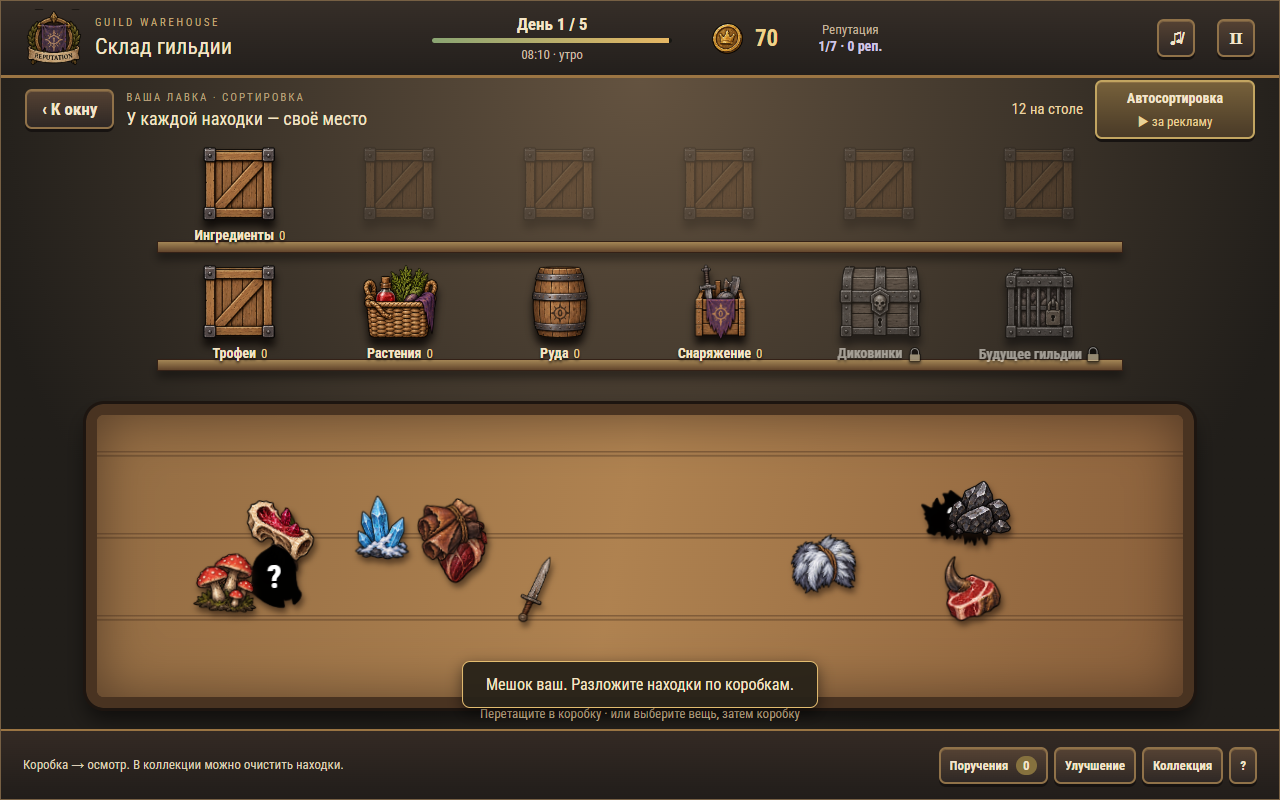
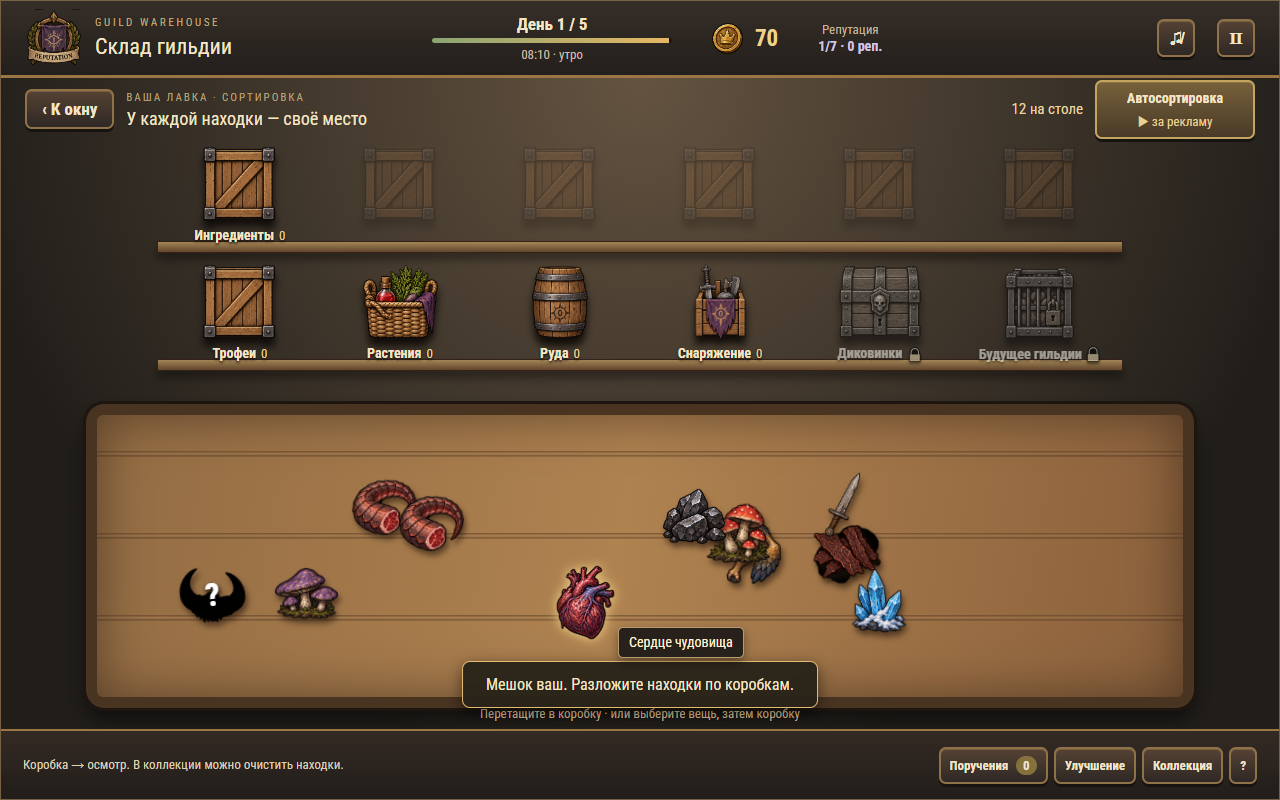
создано ftue для реализации обучения и изменен стартовая обложка

Changed region(s): [[0.125, 0.5938, 0.5938, 0.8438], [0.5, 0.5938, 0.8125, 0.8125]]

diff --git a/dist/game.js b/dist/game.js
@@ -188,7 +188,7 @@ function renderReception(){
     if(!state.bag.length||!offer)button(action,'К столу и коробкам',()=>setScreen('work','sort'),'goWork');
     if(!state.schedule.length&&!state.offers.length&&!state.orderSchedule?.length)button(action,'Закончить день',requestEndDay,'closeDay',!!state.bag.length);
   }
-  $('stepHint').textContent=state.started?'Мешок → ваш порядок → заказы → развитие лавки':'Наведите порядок среди находок и познакомьтесь с гильдией.';
+  $('stepHint').textContent='';
 }
 function planDay(firstArrival=0){
   state.dayCollectionStart=state.collection.length;
@@ -200,7 +200,7 @@ function planDay(firstArrival=0){
   for(let i=0;i<n;i++){const big=state.day===2&&i===2;state.schedule.push({at:timing?timing.adventurers[i]:i===0?firstArrival:Math.round(i*140/(n-1)),visitor:(state.day+i-1)%adventurers.length,big,loot:makeLoot(big)});}
   guaranteeOrder();tickArrivals();
 }
-function startGame(){state=freshState();state.started=true;last=performance.now();planDay(2);render();save();}
+function startGame(){state=freshState();state.started=true;last=performance.now();planDay(2);startTutorial();render();save();}
 function tickArrivals(){
   let changed=false;
   const now=CONFIG.daySeconds-state.seconds;let orderDeferred=false;
@@ -219,8 +219,8 @@ function buyBag(){
   prepareOffer(state.offers[0]);if(state.gold<state.offers[0].price)return;
   const offer=state.offers.shift();state.gold-=offer.price;state.daySpent+=offer.price;state.dayBought++;
   state.bag.push(...offer.loot);state.combo=0;trackSortingBag(offer.loot);
-  for(const x of offer.loot)x.tablePos={x:Math.random()*.88,y:Math.random()*.74};
-  if(!INTRO_TIMING[state.day]&&!allOrders().some(o=>o.accepted===false)&&(!allOrders().length||state.offers.length||state.schedule.length))createOrder();setScreen('work','sort');beep();toast('Мешок ваш. Разложите находки по коробкам.');
+  for(const [i,x] of offer.loot.entries())x.tablePos=offer.tutorial?{x:.12+i*.22,y:.35}:{x:Math.random()*.88,y:Math.random()*.74};
+  if(!INTRO_TIMING[state.day]&&!allOrders().some(o=>o.accepted===false)&&(!allOrders().length||state.offers.length||state.schedule.length))createOrder();setScreen('work','sort');beep();
 }
 function advanceReadyVisitor(dt){
   if(!INTRO_TIMING[state.day]||!state.dayBought||(state.bag.length&&state.screen!=='reception')||state.offers.length||allOrders().some(o=>o.accepted===false)){
@@ -276,11 +276,12 @@ function renderWork(){
   renderShelves();$('pile').innerHTML='';if(sort)renderItems($('pile'),state.bag,'table');
   $('boxZone').innerHTML='';$('sourceBox').innerHTML='';hidden('sourceBox',true);
   if(!sort){
-    $('boxZone').innerHTML='<div id="parcelDrop" aria-label="Открытая коробка для заказа"><span class="box-title">Поручение</span><div id="packedItems"></div></div>';
-    for(const x of (state.order?.packed||[])){const im=document.createElement('img');im.src=asset(items[x.type].sprite);im.alt=items[x.type].name;$('packedItems').append(im);}
+    $('boxZone').innerHTML='<div id="parcelDrop" aria-label="Открытая коробка для заказа"><span class="box-title">Поручение</span><button id="tidyParcel" class="tidy-box">Сортировать</button><button id="closeParcel" class="red-close" aria-label="Закрыть посылку">×</button><div id="packedScroll"><div id="packedItems"></div></div></div>';
+    renderItems($('packedItems'),state.order?.packed||[],'packed');
+    $('tidyParcel').onclick=()=>arrangeBox($('packedItems'),state.order.packed,'packed');$('closeParcel').onclick=()=>setScreen('work','sort');
     hidden('sourceBox',false);
     if(state.activeCat===null){$('sourceBox').className='source-placeholder';$('sourceBox').textContent='Откройте нужную коробку на полке';}
-    else{$('sourceBox').className='source-open';$('sourceBox').innerHTML=`<div class="source-heading"><div><b>${categories[state.activeCat].name}</b></div><button id="closeSource" class="red-close" aria-label="Закрыть коробку">×</button></div><div id="sourceScroll"><div id="sourceItems"></div></div>`;$('closeSource').onclick=()=>{state.activeCat=null;renderWork();};renderItems($('sourceItems'),stockFor(state.activeCat),'source');}
+    else{$('sourceBox').className='source-open';$('sourceBox').innerHTML=`<div class="source-heading"><div><b>${categories[state.activeCat].name}</b></div><button id="tidySource" class="tidy-box">Сортировать ящик</button><button id="closeSource" class="red-close" aria-label="Закрыть коробку">×</button></div><div id="sourceScroll"><div id="sourceItems"></div></div>`;$('closeSource').onclick=()=>{state.activeCat=null;renderWork();};$('tidySource').onclick=()=>arrangeBox($('sourceItems'),stockFor(state.activeCat),'source');renderItems($('sourceItems'),stockFor(state.activeCat),'source');}
   }
   renderChecklist();hidden('autoSortButton',!sort);$('autoSortButton').disabled=!state.bag.length||state.autoSorting;
   hidden('sweepButton',!sort||!state.upgrade);$('sweepButton').disabled=!state.bag.length;
@@ -313,31 +314,41 @@ function renderChecklist(){
   else if(orderComplete())button(actions,state.activeCat===null?'Выдать посылку':'Сначала закройте коробку',finishOrder,'ship',state.activeCat!==null).className='primary';
   else button(actions,'Вернуться к сортировке',()=>setScreen('work','sort'),'backSort');
 }
+function itemPositionKey(kind){return kind==='table'?'tablePos':kind==='packed'?'parcelPos':'boxPos';}
+function arrangeBox(area,list,kind){
+  if(state.paused||state.autoSorting)return;
+  const width=area.clientWidth,size=60,columns=Math.max(1,Math.floor((width-20)/68)),key=itemPositionKey(kind);
+  const ordered=[...list].sort((a,b)=>(isUnknown(a)?'Неизвестная находка':items[a.type].name).localeCompare(isUnknown(b)?'Неизвестная находка':items[b.type].name,'ru')||a.uid-b.uid);
+  ordered.forEach((x,i)=>{x[key]={x:(i%columns)*68/Math.max(1,width-size-20),y:8+Math.floor(i/columns)*68};x.boxAngle=0;});
+  area.innerHTML='';renderItems(area,list,kind);area.parentElement.scrollTop=0;save();
+}
 function renderItems(area,list,kind){
   hidden('tooltip',true);
   area.classList.toggle('crowded-pile',kind==='table'&&list.length>20);
-  if(!list.length){area.innerHTML='<div class="empty-pile">Здесь пока пусто</div>';return;}
+  if(!list.length){area.style.height='100%';area.innerHTML='<div class="empty-pile">Здесь пока пусто</div>';return;}
   const table=kind==='table',size=table?79:60,width=area.clientWidth||450,columns=Math.max(1,Math.floor((width-20)/68));
+  const key=itemPositionKey(kind);
   list.forEach((x,i)=>{
-    if(!table)x.boxPos={x:(i%columns)*68/Math.max(1,width-size-20),y:Math.floor(i/columns)*68};
-    const pos=table?(x.tablePos||{x:Math.random()*.8,y:Math.random()*.7}):x.boxPos;
+    if(!table&&!x[key])x[key]={x:(i%columns)*68/Math.max(1,width-size-20),y:8+Math.floor(i/columns)*68};
+    const pos=table?(x.tablePos||{x:Math.random()*.8,y:Math.random()*.7}):x[key];
+    if(!table){pos.x=Math.max(0,Math.min(1,pos.x));pos.y=Math.max(8,pos.y);}
     if(table)x.tablePos=pos;
     const b=button(area,'',()=>clickItem(x,kind));b.className='item'+(state.selected===x.uid?' chosen':'');b.dataset.uid=x.uid;b.dataset.kind=kind;
     const unknown=isUnknown(x);b.classList.toggle('mystery-item',unknown);
     b.setAttribute('aria-label',unknown?'Неизвестная находка':items[x.type].name);
     b.innerHTML=`<img src="${asset(items[x.type].sprite)}" alt="${unknown?'Неизвестная находка':items[x.type].name}" draggable="false">${unknown?'<span class="mystery-question">?</span>':''}`;
     b.style.left=(10+pos.x*Math.max(1,width-size-20))+'px';b.style.top=(table?10+pos.y*Math.max(1,area.clientHeight-size-20):pos.y)+'px';
-    b.style.transform=`rotate(${x.uid%21-10}deg)`;b.style.zIndex=x.depth||i+1;
+    b.style.transform=`rotate(${!table&&x.boxAngle!==undefined?x.boxAngle:x.uid%21-10}deg)`;b.style.zIndex=x.depth||i+1;
     b.onpointerdown=e=>pointerDown(e,x,b,kind);
   });
-  if(!table)area.style.height=Math.max(180,...list.map(x=>x.boxPos.y+size+20))+'px';
+  if(!table)area.style.height=Math.max(area.parentElement.clientHeight,...list.map(x=>x[key].y+size+12))+'px';
 }
 function clickItem(x,kind){
   if(performance.now()<suppressUntil||state.paused||state.autoSorting)return;
   if(isUnknown(x)){openUnknown(x);return;}
-  if(state.inspectCat!==null&&kind!=='inspect'&&kind!=='junk')return;
+  if(state.inspectCat!==null&&!['inspect','junk','target'].includes(kind))return;
   if(kind==='source'){packItem(x.uid);return;}
-  if(kind==='inspect'){toast(`${items[x.type].name} · передвигайте внутри коробки`);return;}
+  if(['inspect','target','packed'].includes(kind))return;
   state.selected=state.selected===x.uid?null:x.uid;
   if(kind==='junk'){renderInspection();toast('Выберите коробку на полке или нажмите «Переложить»');}else renderWork();
 }
@@ -429,13 +440,14 @@ function openInspection(cat){if(state.paused||state.autoSorting||!state.started)
 function renderInspection(){const cat=state.inspectCat;if(cat===null)return;const list=cat==='junk'?state.junk:stockFor(cat);$('inspectTitle').textContent=`${cat==='junk'?'Диковинки':categories[cat].name}`;$('inspectItems').innerHTML='';renderItems($('inspectItems'),list,cat==='junk'?'junk':'inspect');$('inspector').querySelector('.inspection-note').textContent=cat==='junk'?'Выберите вещь и перенесите в коробку справа.':'Двигайте вещи · для очистки откройте коллекцию.';}
 function renderTarget(){
   const show=state.inspectCat==='junk';hidden('targetPreview',!show);if(!show)return;
-  const cat=state.targetCat,area=$('targetPreview');area.innerHTML=`<header><span>${categories[cat].name}</span><button id="moveSelected" style="font-size:14px;padding:7px">Переложить →</button></header><div class="target-items">${stockFor(cat).map(x=>`<img src="${asset(items[x.type].sprite)}" alt="${items[x.type].name}">`).join('')||'<div class="target-empty">Перетащите сюда вещь из «Диковинок». Другую коробку выберите на полке.</div>'}</div>`;
+  const cat=state.targetCat,area=$('targetPreview');area.innerHTML=`<header><span>${categories[cat].name}</span><button id="moveSelected">Переложить →</button><button id="tidyTarget" class="tidy-box">Сортировать ящик</button><button id="closeTarget" class="red-close" aria-label="Закрыть коробки">×</button></header><div id="targetScroll"><div id="targetItems"></div></div>`;
+  renderItems($('targetItems'),stockFor(cat),'target');$('tidyTarget').onclick=()=>arrangeBox($('targetItems'),stockFor(cat),'target');$('closeTarget').onclick=closeInspection;
   $('moveSelected').disabled=state.selected===null;$('moveSelected').onclick=()=>sortItem(state.selected,state.targetCat);
 }
 function closeInspection(){cancelDrag();state.inspectCat=null;state.selected=null;hidden('inspector',true);hidden('targetPreview',true);renderWork();}
 function pointerDown(e,x,node,kind){
   if(e.button!==0||state.paused||state.autoSorting)return;
-  if(state.inspectCat!==null&&kind!=='inspect'&&kind!=='junk')return;
+  if(state.inspectCat!==null&&!['inspect','junk','target'].includes(kind))return;
   const r=node.getBoundingClientRect();drag={uid:x.uid,item:x,node,kind,x:e.clientX,y:e.clientY,grabX:(e.clientX-r.left)/scale,grabY:(e.clientY-r.top)/scale,active:false};node.setPointerCapture(e.pointerId);
 }
 function cancelDrag(){if(drag){drag.ghost?.remove();drag.node.style.opacity='';drag=null;}}
@@ -444,7 +456,7 @@ addEventListener('pointermove',e=>{
   if(!drag)return;if(!drag.active&&Math.hypot(e.clientX-drag.x,e.clientY-drag.y)<6)return;
   if(!drag.active){drag.active=true;drag.ghost=drag.node.cloneNode(true);drag.ghost.classList.add('dragging');drag.ghost.classList.remove('chosen');drag.ghost.style.opacity='1';drag.ghost.style.transform='none';drag.ghost.style.width=drag.node.getBoundingClientRect().width+'px';drag.ghost.style.height=drag.node.getBoundingClientRect().height+'px';document.body.append(drag.ghost);drag.node.style.opacity='0';}
   drag.ghost.style.left=e.clientX-drag.grabX*scale+'px';drag.ghost.style.top=e.clientY-drag.grabY*scale+'px';
-  const scroll=drag.kind==='table'?$('pile'):drag.kind==='inspect'||drag.kind==='junk'?$('inspectScroll'):$('sourceScroll');
+  const scroll=drag.kind==='table'?$('pile'):drag.node.parentElement.parentElement;
   if(scroll&&inside(scroll,e.clientX,e.clientY)){const r=scroll.getBoundingClientRect();if(e.clientY>r.bottom-20*scale)scroll.scrollTop+=10;if(e.clientY<r.top+20*scale)scroll.scrollTop-=10;}
 });
 addEventListener('pointerup',e=>{
@@ -460,9 +472,11 @@ addEventListener('pointerup',e=>{
     const r=area.getBoundingClientRect(),size=d.kind==='table'?79:60;
     const pos={x:Math.max(0,Math.min(1,((e.clientX-r.left)/scale-d.grabX-10)/Math.max(1,area.clientWidth-size-20))),y:0};
     if(d.kind==='table')pos.y=Math.max(0,Math.min(1,((e.clientY-r.top)/scale-d.grabY-10)/Math.max(1,area.clientHeight-size-20)));
-    else pos.y=Math.max(0,Math.min(area.clientHeight-size,(e.clientY-r.top)/scale-d.grabY));
-    d.item[d.kind==='table'?'tablePos':'boxPos']=pos;d.item.depth=++depth;state.selected=null;
-    if(state.inspectCat!==null)renderInspection();else renderWork();save();
+    else pos.y=Math.max(8,Math.min(area.clientHeight-size-12,(e.clientY-r.top)/scale-d.grabY));
+    d.item[itemPositionKey(d.kind)]=pos;d.item.depth=++depth;state.selected=null;
+    const scrollTop=pane.scrollTop,paneId=pane.id;
+    if(state.inspectCat!==null){renderInspection();renderTarget();}else renderWork();
+    if($(paneId))$(paneId).scrollTop=scrollTop;save();
   }else toast('Вещь осталась на прежнем месте.');
 });
 addEventListener('pointercancel',cancelDrag);
@@ -590,6 +604,7 @@ function setup(){
   $('autoSortButton').parentElement.insertBefore(goldAd,$('autoSortButton'));
   const receptionGoldAd=button($('reception'),'▶ Посмотреть рекламу · +15 монет',showGoldAd,'receptionGoldAd');receptionGoldAd.className='gold hidden';
   const target=document.createElement('section');target.id='targetPreview';target.className='hidden';$('work').append(target);
+  const tidyInspector=button($('closeInspector').parentElement,'Сортировать ящик',()=>arrangeBox($('inspectItems'),state.inspectCat==='junk'?state.junk:stockFor(state.inspectCat),state.inspectCat==='junk'?'junk':'inspect'),'tidyInspector');tidyInspector.className='tidy-box';
   const note=document.createElement('div');note.className='portrait-note';note.textContent='Поверните телефон горизонтально — так удобнее раскладывать находки.';document.body.append(note);
   $('back').onclick=()=>setScreen('reception');$('bag').onclick=buyBag;$('parcel').onclick=openOrder;$('closeInspector').onclick=closeInspection;
   $('closeModal').onclick=closeModal;$('autoSortButton').onclick=showAutoSortAd;$('ordersNav').onclick=showOrders;$('help').onclick=help;
@@ -609,6 +624,6 @@ addEventListener('keydown',e=>{
   if(e.key==='Escape'){if(state.inspectCat!==null)closeInspection();else if(state.selected!==null){state.selected=null;renderWork();}else if(state.activeCat!==null){state.activeCat=null;renderWork();}else if(state.screen==='work')setScreen('reception');}
 });
 document.addEventListener('visibilitychange',()=>{last=performance.now();save();});addEventListener('pagehide',save);addEventListener('resize',resize);
-function tick(now){const dt=Math.min(1,(now-last)/1000);last=now;if(state.started&&!state.paused&&!state.ended&&!state.autoSorting&&!document.hidden){state.seconds=Math.max(0,state.seconds-dt*(state.screen==='work'?CONFIG.workTimeRate:1));tickArrivals();advanceReadyVisitor(dt);updateHud();saveClock+=dt;if(saveClock>=5){saveClock=0;save();}}requestAnimationFrame(tick);}
+function tick(now){const dt=Math.min(1,(now-last)/1000);last=now;if(state.started&&!state.paused&&!state.ended&&!state.autoSorting&&!document.hidden){if(!state.tutorial?.active){state.seconds=Math.max(0,state.seconds-dt*(state.screen==='work'?CONFIG.workTimeRate:1));tickArrivals();advanceReadyVisitor(dt);}updateHud();saveClock+=dt;if(saveClock>=5){saveClock=0;save();}}tutorialFrame();requestAnimationFrame(tick);}
 
 setup();resize();render();requestAnimationFrame(tick);

diff --git a/dist/tutorial.js b/dist/tutorial.js
@@ -1,0 +1,86 @@
+'use strict';
+const TUTORIAL_KEY='guild-warehouse-tutorial-completed-v1';
+function startTutorial(){
+  try{if(localStorage.getItem(TUTORIAL_KEY)==='1')return;}catch{}
+  const offer=state.schedule.shift();if(!offer)return;
+  const helmet=makeItem(24),ingredient=makeItem(30),trophy=makeItem(0),unknown=makeItem(4);
+  for(const x of [helmet,ingredient,trophy])x.unknown=false;unknown.unknown=true;
+  offer.loot=[helmet,ingredient,trophy,unknown];offer.tutorial=true;offer.price=0;offer.qualityRolled=true;offer.at=0;offer.arrivalSerial=1;state.arrivalSerial=1;state.offers=[offer];
+  state.tutorial={active:true,stage:'bag',targets:[helmet.uid,ingredient.uid,trophy.uid]};
+}
+function finishTutorial(skipped=false){
+  if(state.tutorial)state.tutorial.active=false;
+  try{localStorage.setItem(TUTORIAL_KEY,'1');}catch{}
+  $('tutorialGuide')?.remove();render();save();
+  if(!skipped)toast('Обучение завершено! Продолжайте собирать поручение.');
+}
+function tutorialGuide(target,message,cleaning=false){
+  let guide=$('tutorialGuide');
+  if(!guide){guide=document.createElement('div');guide.id='tutorialGuide';guide.innerHTML='<div class="tutorial-ring"></div><div class="tutorial-hand" aria-hidden="true">👇</div><div class="tutorial-note"><span role="status" aria-live="polite"></span><button>Пропустить обучение</button></div>';$('effects').append(guide);guide.querySelector('button').onclick=()=>finishTutorial(true);}
+  const text=guide.querySelector('.tutorial-note span');if(text.textContent!==message)text.textContent=message;
+  guide.classList.toggle('cleaning',cleaning);
+  const ring=guide.querySelector('.tutorial-ring'),hand=guide.querySelector('.tutorial-hand');
+  if(!target||!target.getClientRects().length){ring.style.display=hand.style.display='none';return;}
+  ring.style.display=hand.style.display='';
+  const r=target.getBoundingClientRect(),g=$('game').getBoundingClientRect(),x=(r.left-g.left)/scale,y=(r.top-g.top)/scale,w=r.width/scale,h=r.height/scale;
+  Object.assign(ring.style,{left:(x-4)+'px',top:(y-4)+'px',width:(w+8)+'px',height:(h+8)+'px'});
+  Object.assign(hand.style,{left:(x+w/2-22)+'px',top:Math.max(4,cleaning?y+h/2-20:y-48)+'px'});
+}
+function tutorialFrame(){
+  const t=state.tutorial;if(!state.started||!t?.active){$('tutorialGuide')?.remove();return;}
+  const modalOpen=!$('modal').classList.contains('hidden');
+  if($('autoSortButton'))$('autoSortButton').disabled=true;
+  if($('sweepButton'))$('sweepButton').disabled=true;
+  if(t.stage==='bag'){
+    if(state.dayBought){t.stage='sort';save();}
+    else{
+      if(state.screen!=='reception'){tutorialGuide($('back'),'Вернитесь к стойке за учебным мешком.');return;}
+      if($('buyBag'))$('buyBag').textContent='Отсортировать';
+      $('speech').innerHTML='<span class="eyebrow">ПЕРВЫЙ ПОСЕТИТЕЛЬ</span><h2>Роуэн</h2><p>Вот учебный мешок с находками. Нажмите «Отсортировать», и я покажу, куда их положить.</p>';
+      tutorialGuide($('bag'),'Первый мешок уже на стойке. Нажмите на него или кнопку «Отсортировать».');return;
+    }
+  }
+  if(t.stage==='sort'){
+    if(modalOpen){
+      if($('dirt')){
+        if($('cleanKey').disabled)tutorialGuide($('closeModal'),'Предмет распознан! Закройте окно крестиком.');
+        else tutorialGuide($('dirt'),'Зажмите левую кнопку мыши и водите по кругу, чтобы очистить предмет.',true);
+      }else if($('inspectUnknown'))tutorialGuide($('inspectUnknown'),'Нажмите «Распознать», чтобы очистить неизвестную находку.');
+      else tutorialGuide($('closeModal'),'Закройте окно и продолжите обучение.');return;
+    }
+    if(state.screen!=='work'||state.mode!=='sort'){tutorialGuide($('resumeBag')||$('goWork'),'Вернитесь к столу и разложите находки.');return;}
+    if(state.inspectCat!==null){tutorialGuide($('closeInspector'),'Закройте ящик, чтобы продолжить сортировку.');return;}
+    const next=t.targets.map(uid=>state.bag.find(x=>x.uid===uid)).find(Boolean)||state.bag.find(x=>!isUnknown(x));
+    if(next){
+      const item=items[next.type],shelf=document.querySelector(`#shelves [data-cat="${item.cat}"]`),node=document.querySelector(`#pile [data-uid="${next.uid}"]`);
+      const held=drag?.uid===next.uid||state.selected===next.uid;
+      tutorialGuide(held?shelf:node,held?`Положите «${item.name}» в «${categories[item.cat].name}».`:`Возьмите «${item.name}» и перенесите в «${categories[item.cat].name}». Можно также нажать предмет, затем ящик.`);return;
+    }
+    const unknown=state.bag.find(isUnknown);
+    if(unknown){tutorialGuide(document.querySelector(`#pile [data-uid="${unknown.uid}"]`),'Осталась неизвестная находка. Нажмите чёрный предмет со знаком вопроса.');return;}
+    if(!state.bag.length){
+      const previous=state.dayOrdersCreated||0;
+      if(createOrder(true)){state.orderSchedule.shift();const order=allOrders().find(o=>o.accepted===false);t.orderId=order.id;t.stage='guest';render();save();}
+      else if(previous)finishTutorial();
+    }
+  }
+  const order=allOrders().find(o=>o.id===t.orderId);
+  if(t.stage==='guest'){
+    if(state.screen==='work'){tutorialGuide($('arrivalSignal'),'К стойке пришёл заказчик. Нажмите уведомление о госте.');return;}
+    t.stage='order';save();
+  }
+  if(t.stage==='order'){
+    if(order?.accepted!==false){t.stage='assembly';state.order=order;for(const x of state.stock)delete x.boxPos;setScreen('work','order');save();}
+    else if(modalOpen&&$('acceptOrder')){$('acceptOrder').textContent='Собрать посылку';tutorialGuide($('acceptOrder'),'Посмотрите список и нажмите «Собрать посылку».');return;}
+    else{if($('receptionOrder'))$('receptionOrder').textContent='Собрать посылку';tutorialGuide($('receptionOrder'),'Гость принёс поручение. Нажмите «Собрать посылку».');return;}
+  }
+  if(t.stage==='assembly'&&order){
+    if(order.packed.length){finishTutorial();return;}
+    if(modalOpen){tutorialGuide($('beginAssembly')||$('closeModal'),$('beginAssembly')?'Нажмите «Начать собирать», чтобы вернуться к посылке.':'Закройте окно, чтобы продолжить сборку.');return;}
+    if(state.screen!=='work'||state.mode!=='order'){tutorialGuide(document.querySelector(`#orderBoard [data-order-id="${order.id}"]`)||$('ordersNav'),'Откройте принятое поручение и начните сборку.');return;}
+    const line=order.recipe[0],cat=items[line.type].cat;
+    if(state.activeCat!==cat){tutorialGuide(document.querySelector(`#shelves [data-cat="${cat}"]`),`В списке нужен «${items[line.type].name}». Откройте ящик «${categories[cat].name}».`);return;}
+    const x=stockFor(cat).find(x=>x.type===line.type),node=x&&document.querySelector(`#sourceItems [data-uid="${x.uid}"]`);
+    tutorialGuide(drag?.uid===x?.uid?$('parcelDrop'):node,`Перенесите «${items[line.type].name}» в посылку слева. Можно нажать на предмет.`);
+  }
+}

diff --git a/dist/prototype.css b/dist/prototype.css
@@ -47,7 +47,7 @@
   100%{transform:scale(1);opacity:1}
 }
 @media(prefers-reduced-motion:reduce){#reception #bag img,#reception #bag::before{animation:none}}
-#startScreen{position:absolute;inset:0;background:url('assets/reception.png') center/cover no-repeat}
+#startScreen{position:absolute;inset:0;background:url('assets/start-lootkeeper.png') center/cover no-repeat}
 .start-actions{position:absolute;left:50%;bottom:110px;transform:translateX(-50%);display:grid;gap:12px;width:280px}
 .start-actions button{font-size:24px}
 #game.starting>header,#game.starting>footer{display:none}
@@ -245,3 +245,48 @@ html,body,body *,body *::before,body *::after{font-family:'Roboto Condensed',san
 .recognition-result span{display:inline-block;margin:4px 10px;font-weight:700}
 #pile.crowded-pile{display:grid;grid-template-columns:repeat(auto-fill,minmax(84px,1fr));grid-auto-rows:84px;align-content:start;overflow-y:auto;padding:8px;gap:4px}
 #pile.crowded-pile>.item{position:relative;left:auto!important;top:auto!important}
+/* Shared workbench layout: parcel, open box, and order sheet stay separate. */
+#inspector:not(.junk-open){left:326px;top:337px;width:551px;height:282px}
+.fulfillment #sourceBox{left:230px;right:305px;top:0;bottom:0;height:auto}
+.fulfillment #boxZone{left:8px;top:0;bottom:0;width:216px}
+#parcelDrop{width:216px;height:100%;flex-shrink:0}
+#work #checklist{top:0;bottom:0;right:8px;width:256px}
+#inspector.junk-open{left:96px;top:337px;width:535px;height:282px}
+#targetPreview{left:645px;top:337px;width:537px;height:282px}
+.tidy-box{position:absolute;right:72px;top:23px;padding:6px 9px;font-size:13px;z-index:3}
+.inspection-heading>div,.source-heading>div{padding-right:180px;text-align:left}
+.inspection-heading h2,.source-heading b{text-align:left;font-size:20px}
+#inspectScroll,#sourceScroll{top:72px;bottom:22px;left:8%;right:8%}
+#packedScroll{position:absolute;left:18px;right:18px;top:85px;bottom:20px;overflow:auto}
+#packedItems{position:relative;inset:auto;display:block;width:100%;pointer-events:auto;min-height:0}
+#packedItems .item,#targetItems .item{position:absolute;width:60px;height:60px;padding:3px}
+#packedItems .item img,#targetItems .item img{position:static;width:100%;height:100%;object-fit:contain}
+#tidyParcel{top:43px;right:53px;font-size:12px;padding:5px 7px}
+#closeParcel{position:absolute;top:42px;right:20px;width:28px;height:28px;padding:0;font-size:21px}
+#parcelDrop .box-title{top:19px;font-size:18px}
+#targetPreview header{height:84px}
+#targetPreview header>span{position:absolute;top:16px;left:30px;font-size:20px}
+#targetPreview #moveSelected{top:46px;left:30px;right:auto;font-size:12px;padding:4px 8px}
+#targetPreview #tidyTarget{right:72px;top:22px}
+#targetPreview #closeTarget{right:28px;top:22px;padding:0;width:36px;height:36px;font-size:26px}
+#targetScroll{position:absolute;left:8%;right:8%;top:84px;bottom:22px;overflow:auto}
+#targetItems{position:relative;width:100%}
+#work{user-select:none}
+#inspector,#sourceBox.source-open,#targetPreview,#parcelDrop{background-size:107% 112%}
+#inspector .inspection-heading,#sourceBox .source-heading{padding-left:9%}
+#targetPreview header>span{left:9%;top:29px}
+#targetPreview #moveSelected{left:9%;top:57px}
+#targetScroll{top:94px}
+.fulfillment #pileCaption{display:none}
+#work:has(#inspector.junk-open:not(.hidden)) #checklist{visibility:hidden}
+#effects:has(#tutorialGuide){z-index:1500}
+#tutorialGuide{position:absolute;inset:0;z-index:1500;pointer-events:none}
+.tutorial-ring{position:absolute;border:3px solid #ffdb62;border-radius:12px;box-shadow:0 0 18px #ffe18799;animation:tutorialPulse 1s ease-in-out infinite}
+.tutorial-hand{position:absolute;font-size:44px;line-height:1;text-shadow:0 3px 5px #000;animation:tutorialPoint 1s ease-in-out infinite}
+.tutorial-note{position:absolute;bottom:10px;left:50%;transform:translateX(-50%);width:670px;max-width:90%;padding:12px 16px;background:#292016f5;border:2px solid #dbb65c;border-radius:10px;text-align:center;color:#ffe3a2;box-shadow:0 5px 22px #0008;font-size:18px}
+.tutorial-note button{pointer-events:auto;font-size:12px;padding:4px 8px;margin-left:14px}
+.cleaning .tutorial-hand{animation:tutorialClean 1.7s linear infinite}
+@keyframes tutorialPulse{50%{box-shadow:0 0 28px #ffdc63;opacity:.65}}
+@keyframes tutorialPoint{50%{transform:translateY(10px)}}
+@keyframes tutorialClean{0%{transform:translate(40px,0)}25%{transform:translate(0,35px)}50%{transform:translate(-40px,0)}75%{transform:translate(0,-35px)}100%{transform:translate(40px,0)}}
+@media(prefers-reduced-motion:reduce){.tutorial-ring,.tutorial-hand,.cleaning .tutorial-hand{animation:none}}

diff --git a/dist/index.html b/dist/index.html
@@ -6,5 +6,5 @@
 <section id="work" class="scene hidden"><div class="work-heading"><button id="back">‹ К окну</button><div><span id="workMode">СОРТИРОВКА</span><h1 id="workTitle">Из хаоса — в порядок</h1></div><div id="workProgress"></div><button id="autoSortButton" class="ad-sort-button">Автосортировка<small>▶ за рекламу</small></button></div><div id="shelves"></div><div class="shelf-plank"></div><div id="table"><div class="table-caption"><span id="pileCaption"></span><span id="combo"></span></div><div id="pile"></div><div id="boxZone"></div><div id="sourceBox" class="hidden"></div><aside id="checklist" class="hidden"></aside></div><div id="sortingDone" class="hidden"><b>Кто-то пришёл!</b><p>Можно закончить раскладку в коробках,<br>а затем вернуться к стойке.</p><button id="returnToCounter" class="primary">Вернуться к стойке →</button></div><div id="boxMenu" class="hidden"></div><section id="inspector" class="hidden" role="dialog" aria-modal="false" aria-label="Содержимое коробки"><div class="inspection-heading"><div><h2 id="inspectTitle"></h2></div><button id="closeInspector" class="red-close" aria-label="Закрыть осмотр">×</button></div><div id="inspectScroll"><div id="inspectItems"></div></div><p class="inspection-note">Передвигайте предметы внутри коробки.</p></section><div id="workHint" class="work-hint"></div></section>
 <footer><div id="stepHint">Откройте склад, чтобы принять первого авантюриста</div><nav><button id="ordersNav">Поручения <span id="orderBadge">0</span></button><button data-lock="Расширение склада">Расширение <small>🔒</small></button><button data-lock="Магический сканер">Сканер <small>🔒</small></button><button id="help">?</button></nav></footer>
 <div id="toast" role="status" aria-live="polite"></div><div id="tooltip"></div><div id="modal" class="modal hidden"><div class="modal-card"><button class="close" id="closeModal" aria-label="Закрыть">×</button><div id="modalContent"></div></div></div><div id="effects"></div>
-</main></div><script src="catalog.js"></script><script src="game.js?v=counter-orders-1"></script></body></html>
+</main></div><script src="catalog.js"></script><script src="tutorial.js"></script><script src="game.js?v=tutorial-1"></script></body></html>
 

diff --git a/dist/catalog.js b/dist/catalog.js
@@ -8,5 +8,5 @@ const adventurers=[['Роуэн','лесной разведчик','s3_0','Из 
 const customers=[['Эльмир','алхимик гильдии','s4_0'],['Хальд','городской кузнец','s4_1'],['Лира','хранительница записей','s4_5'],['Тавен','хозяин таверны','s4_3']];
 
 customers.push(['Гастон','королевский повар','s4_3']);
-for(const item of items)if(['Паучий шёлк','Ядовитая железа','Болотная слизь','Ледяные перья','Ледяная железа'].includes(item.name))item.cat=0;
+for(const item of items)if(['Теневой рог','Ядовитый клык','Паучий шёлк','Ядовитая железа','Болотная слизь','Ледяные перья','Ледяная железа'].includes(item.name))item.cat=0;
 items.find(item=>item.name==='Магическое ядро').cat=0;
